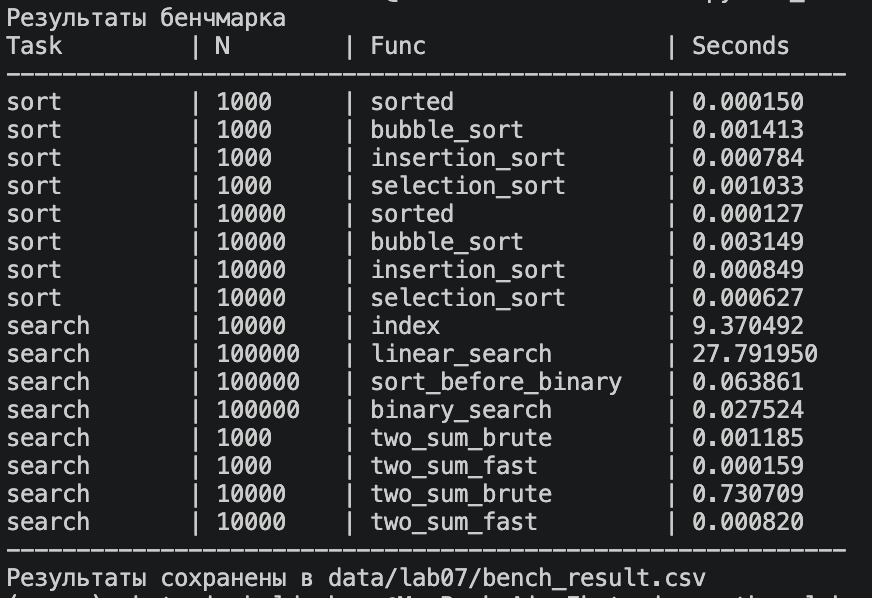
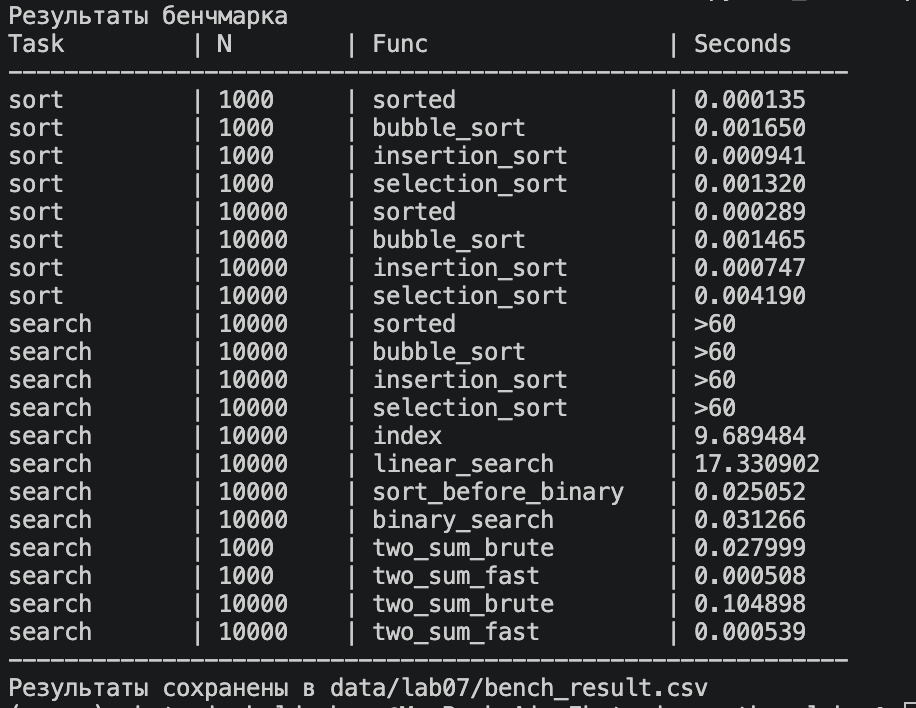
lab07

Changed region(s): [[0.0, 0.0, 0.9599, 1.0], [0.805, 0.9933, 1.0, 1.0]]

diff --git a/src/lab07/bench.py b/src/lab07/bench.py
@@ -71,7 +71,7 @@ def bench_search():
 def main():
     header = ("task", "n", "func", "seconds")
     rows=[]
-    for i in (1_000,10_000):
+    for i in (1_000,10_000,100_000):
         rows.extend(bench_sorts(i))
     rows.extend(bench_search())
 
